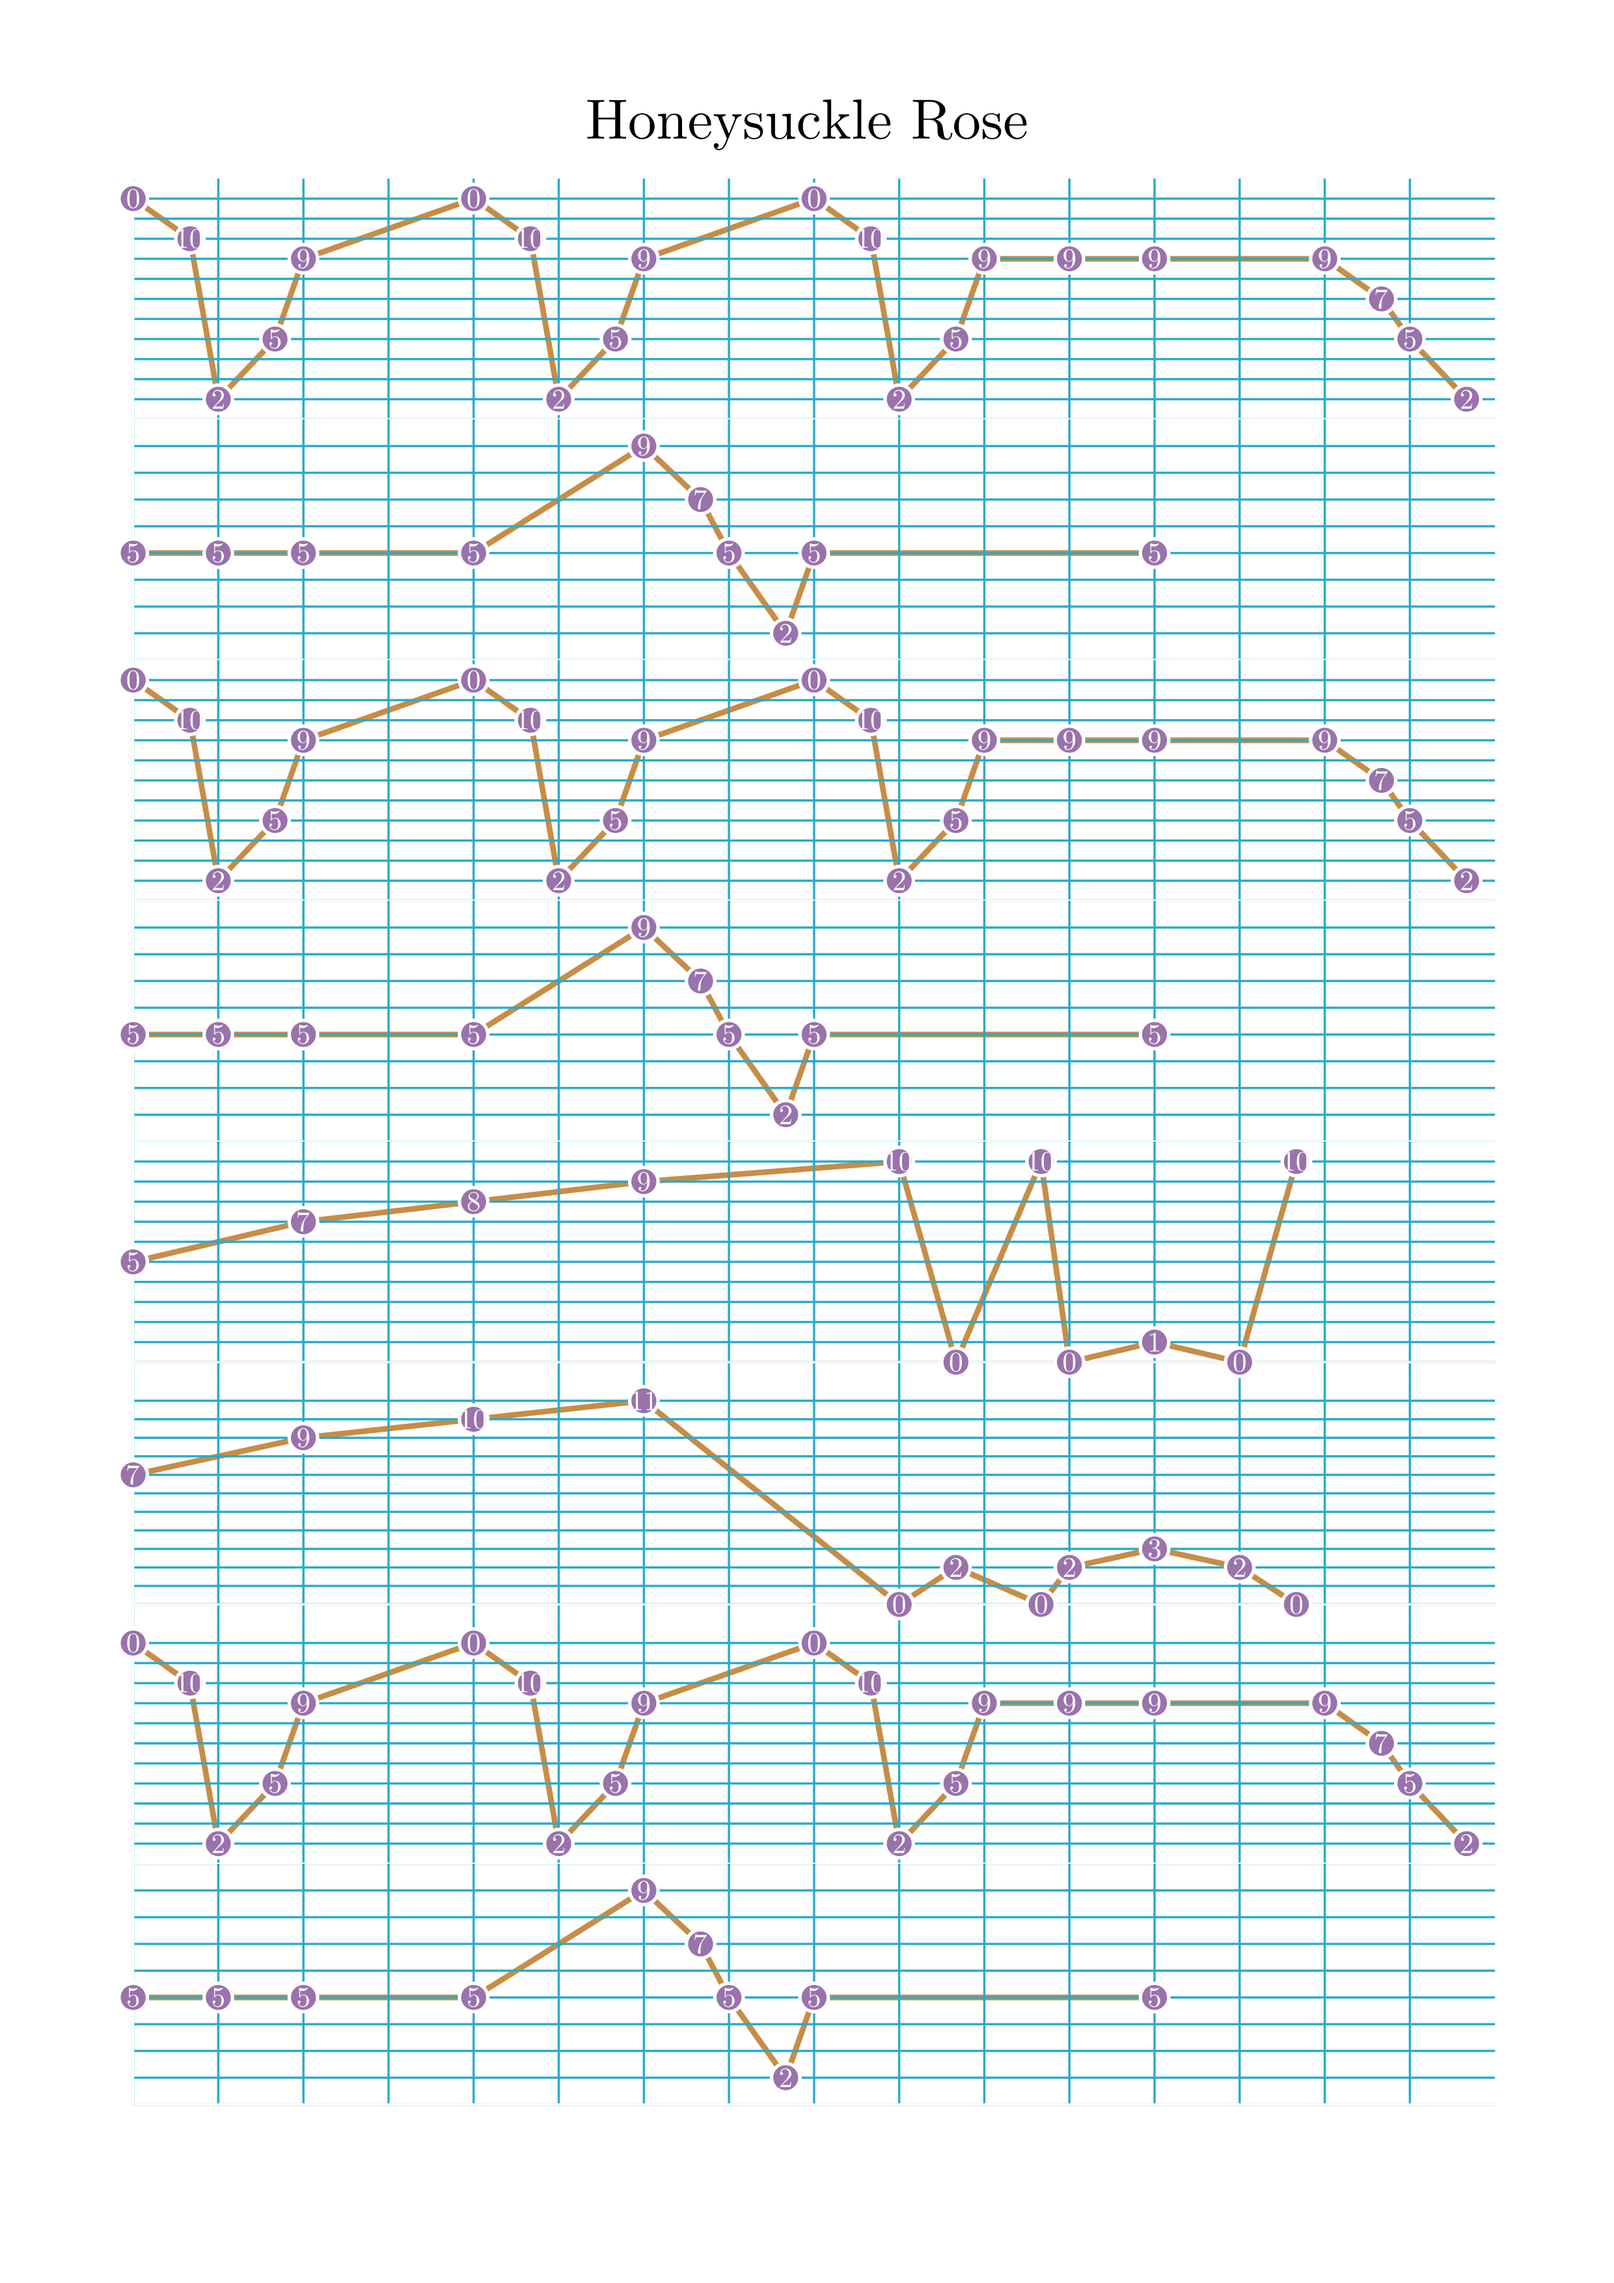
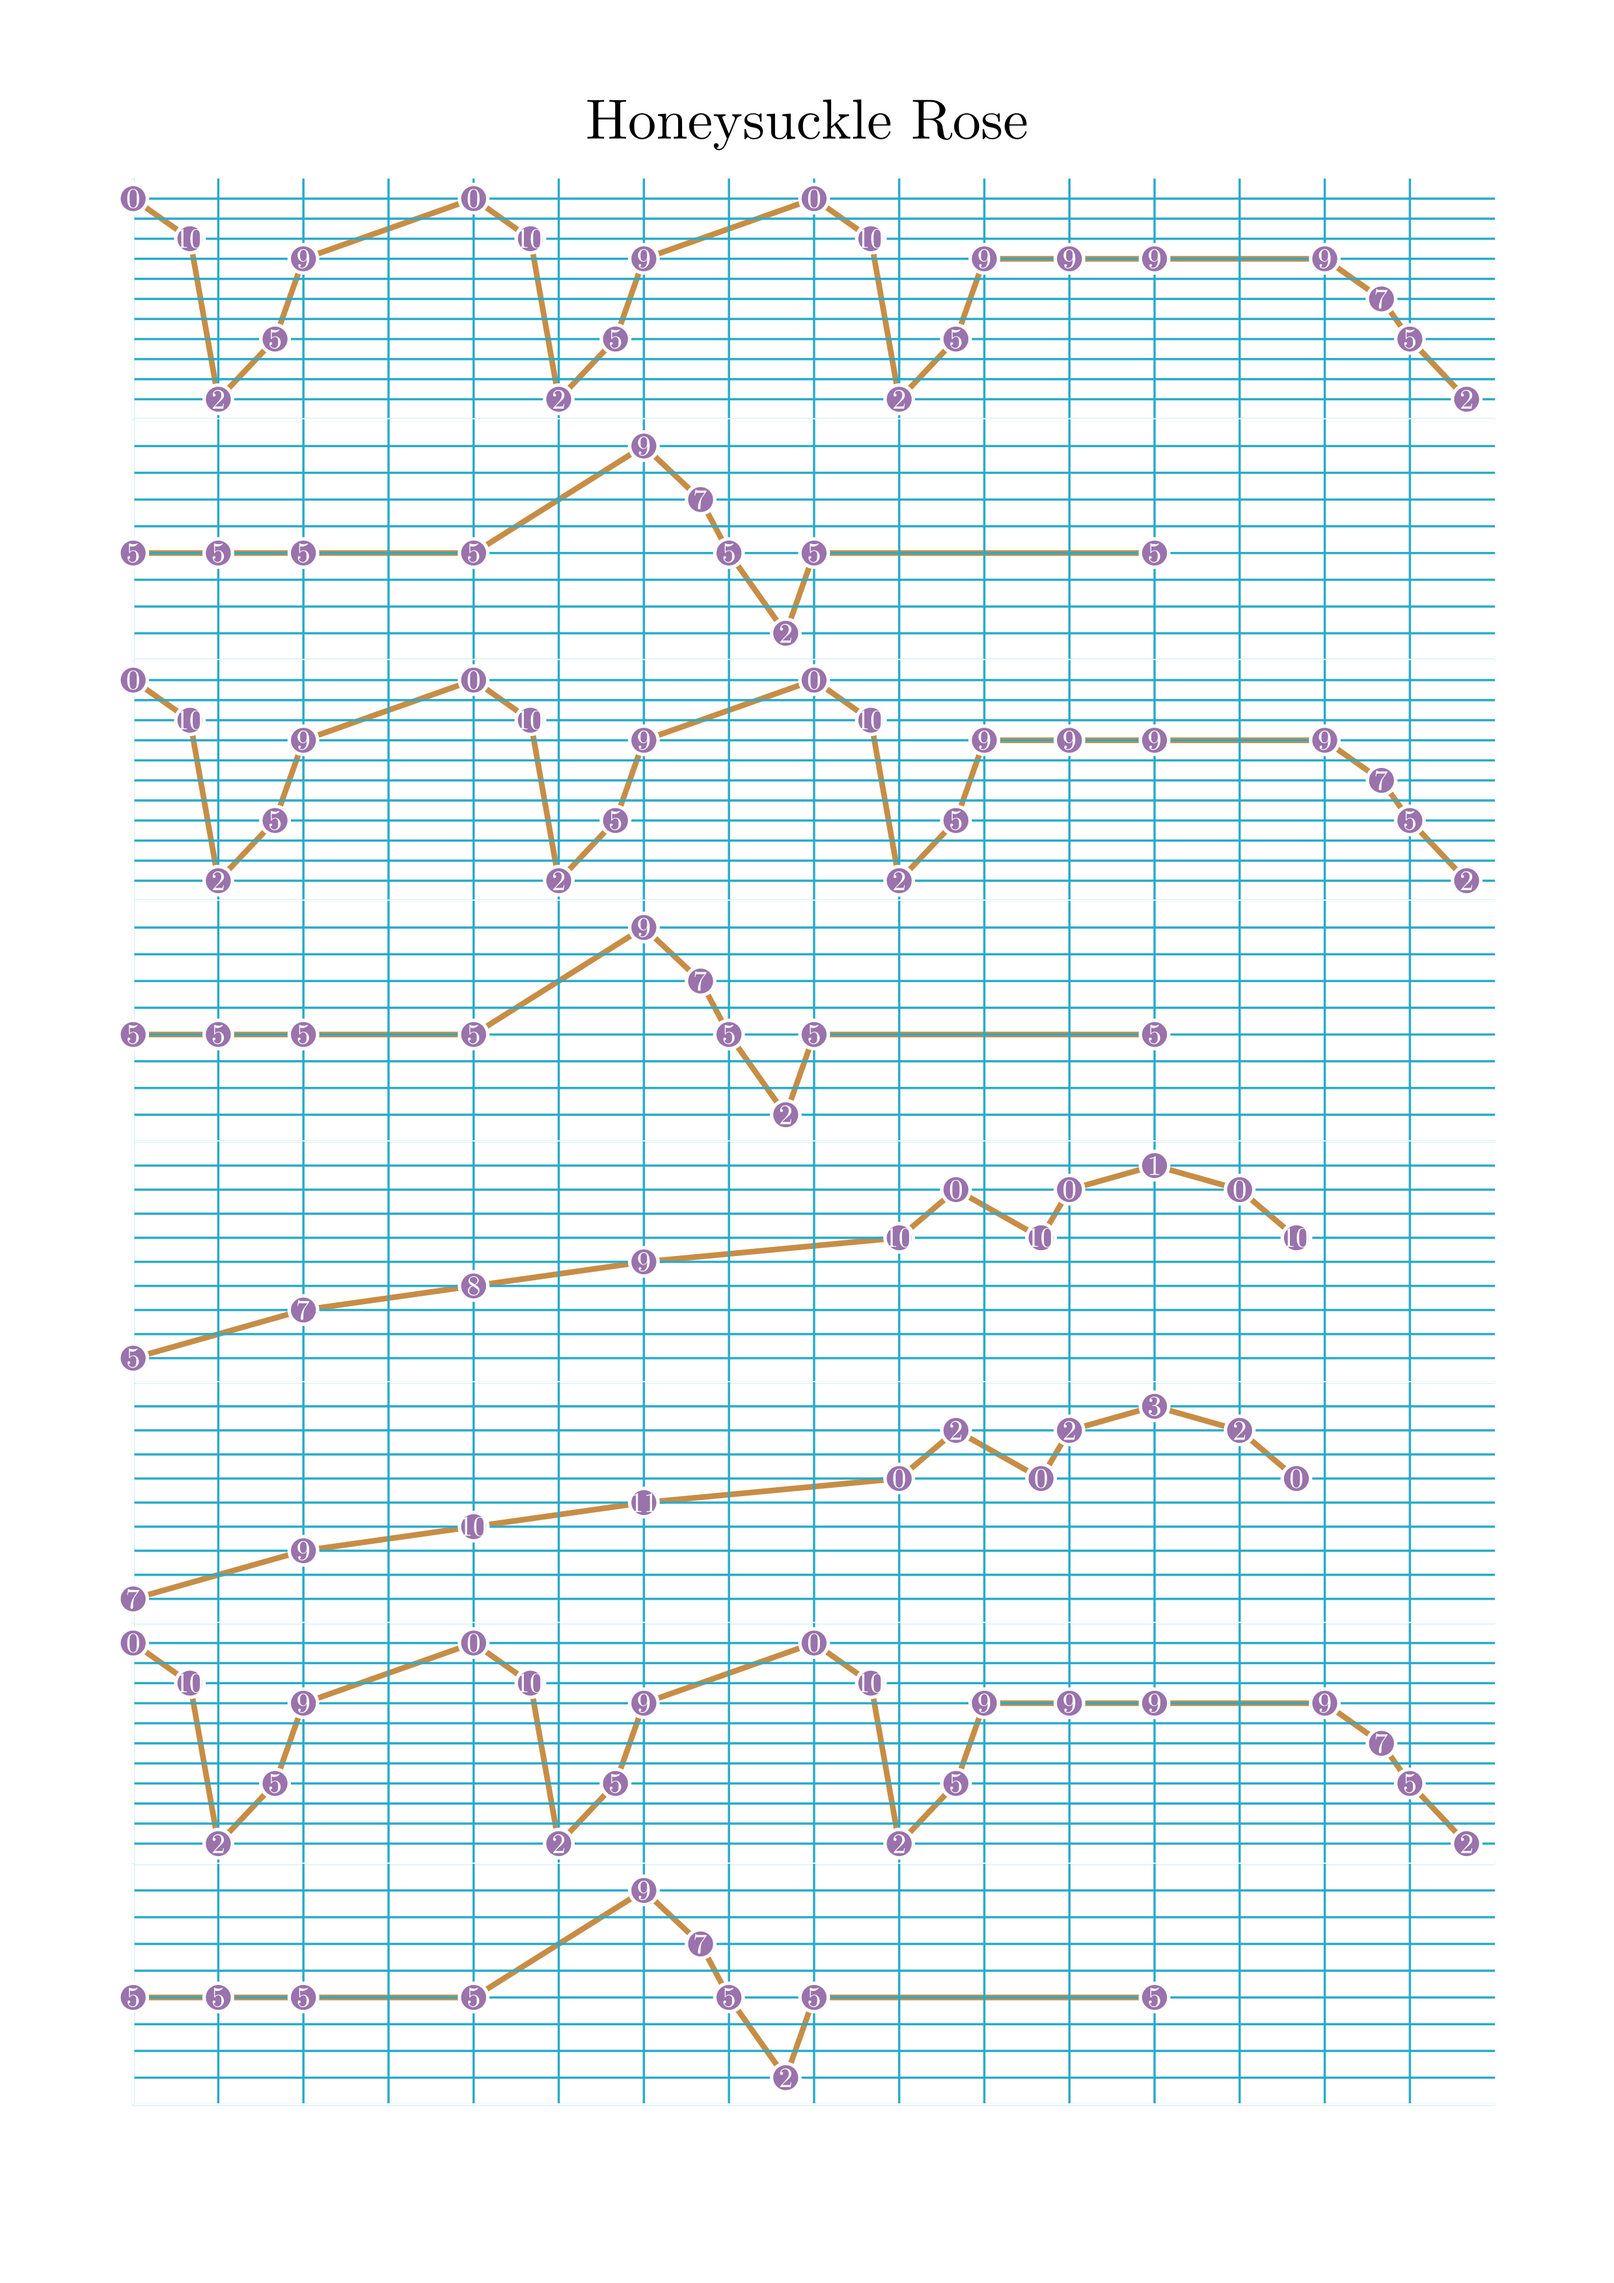
create melody sheet

Changed region(s): [[0.0621, 0.4971, 0.9315, 0.7147]]

diff --git a/graph_music_data.py b/graph_music_data.py
@@ -62,12 +62,12 @@ A = [
 B = [
     [("5 7", [2*b, 2*b])],
     [("8 9", [2*b, 2*b])],
-    [("R 10 0 10 0", [b, tt, b, t, b])],
-    [("1 0 10", [b, tt, 2*b + t])],
+    [("R 10 0' 10 0'", [b, tt, b, t, b])],
+    [("1' 0' 10", [b, tt, 2*b + t])],
     [("7 9", [2*b, 2*b])],
     [("10 11", [2*b, 2*b])],
-    [("R 0 2 0 2", [b, tt, b, t, b])],
-    [("3 2 0", [b, tt, 2*b + t])],
+    [("R 0' 2' 0' 2'", [b, tt, b, t, b])],
+    [("3' 2' 0'", [b, tt, 2*b + t])],
 ]
 
 honey_suckle_rose = [
